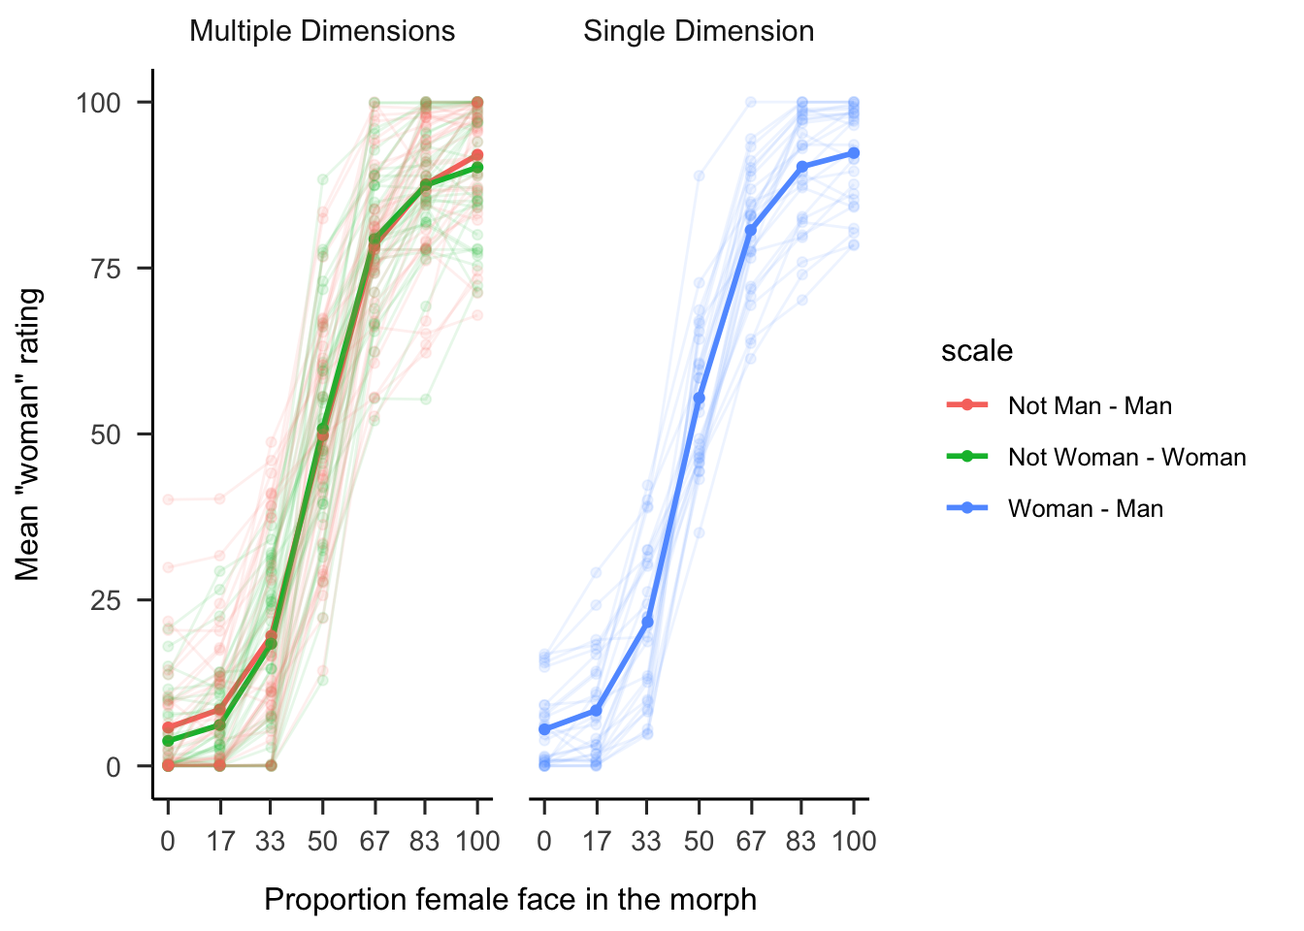
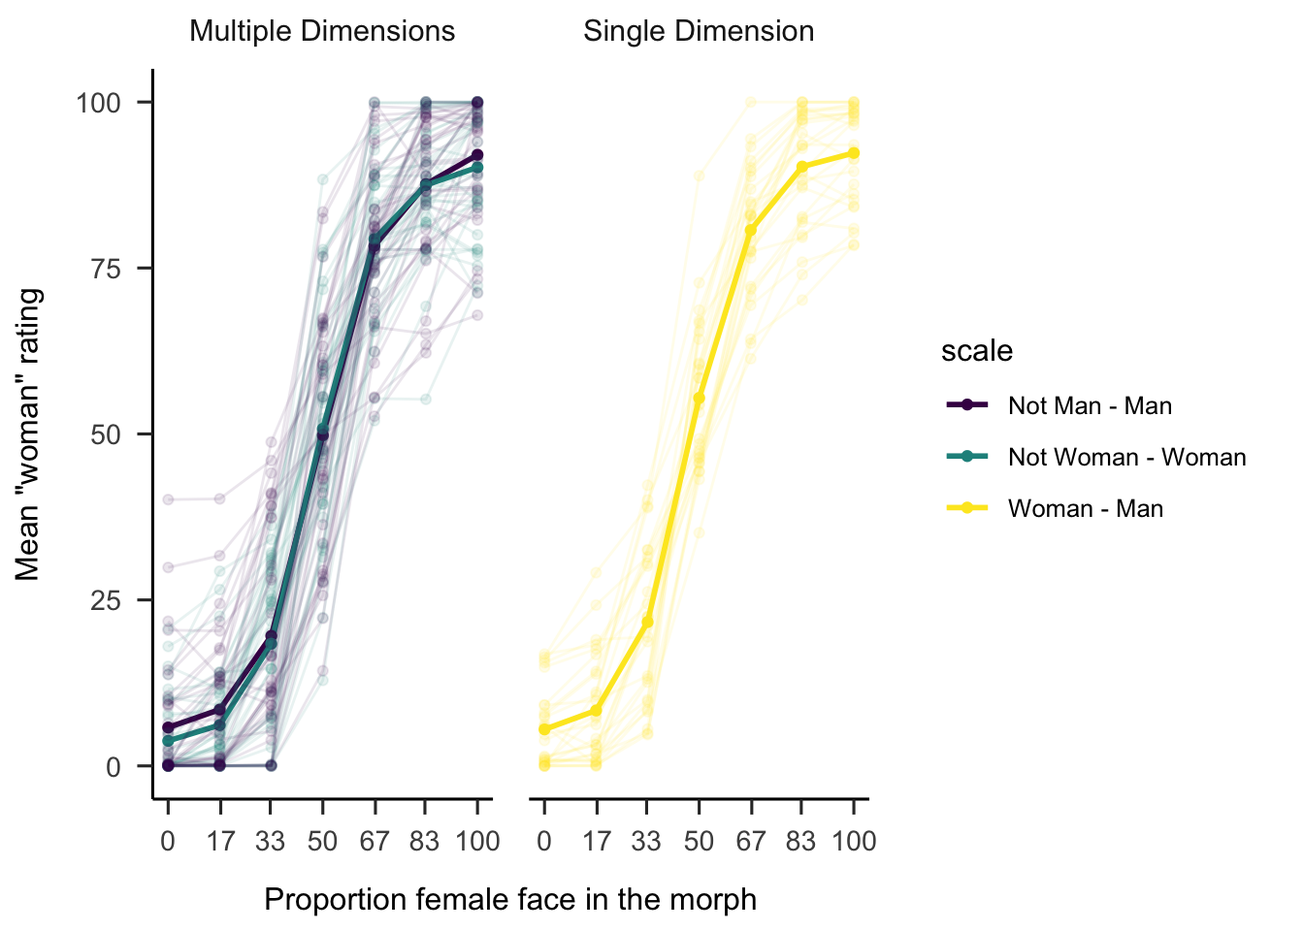
Revisions 2 manuscript

diff --git a/RO_revisions.html b/RO_revisions.html
@@ -165,12 +165,12 @@ div.csl-indent {
 </details>
 </div>
 <p>Surveys and interviews of transgender and gender diverse (TGD) individuals suggest that many people experience gender as fluid, diffuse, and not bounded by the typical western binary of women and men <span class="citation" data-cites="richards_non-binary_2016">Hyde et al. (<a href="#ref-hyde_future_2018" role="doc-biblioref">2018</a>)</span>. In addition, TGD individuals experience invisibility due to the assumption that there are only two genders and that gender should be visible from someone’s face <span class="citation" data-cites="ansara_methodologies_2014">(<a href="#ref-ansara_methodologies_2014" role="doc-biblioref">Ansara and Hegarty 2014</a>)</span>. It is important that research takes this lived reality into account when designing measures of gender categorization to avoid perpetuating such marginalization and invisibility.</p>
-<p>One of the earliest examples of an inclusive attempt to measure gender was the Bem Sex-Role Inventory (BSRI). The BSRI measured gender as a psychological trait and challenged the dichotomous and binary conceptualizations of gender by treating femininity and masculinity as separate constructs <span class="citation" data-cites="bem_measurement_1974">(<a href="#ref-bem_measurement_1974" role="doc-biblioref">Bem 1974</a>)</span>. When gender was measured this way, most people exhibited a mixture of feminine and masculine traits <span class="citation" data-cites="bem_measurement_1974">(<a href="#ref-bem_measurement_1974" role="doc-biblioref">Bem 1974</a>)</span>. The BSRI, despite its innovation, did not offer participants the opportunity to identify with genders beyond the traditional binary categories of women and men.</p>
+<p>One of the earliest examples of an inclusive attempt to measure gender was the Bem Sex-Role Inventory (BSRI). The BSRI measured gender as a psychological trait and challenged the dichotomous and binary conceptualizations of gender by treating femininity and masculinity as separate constructs <span class="citation" data-cites="bem_measurement_1974">(<a href="#ref-bem_measurement_1974" role="doc-biblioref">Bem 1974</a>)</span>. When gender was measured with the BSRI, most people exhibited a mixture of feminine and masculine traits <span class="citation" data-cites="bem_measurement_1974">(<a href="#ref-bem_measurement_1974" role="doc-biblioref">Bem 1974</a>)</span>. The BSRI, despite its innovation, did not offer participants the opportunity to identify with genders beyond the traditional binary categories of women and men.</p>
 <p>More recently, a number of recommendations have been put forward to help researchers measure participants gender identity without excluding TGD people. For example, <span class="citation" data-cites="saperstein_categorical_2021">Saperstein and Westbrook (<a href="#ref-saperstein_categorical_2021" role="doc-biblioref">2021</a>)</span> suggested including a range of categories in addition to “woman” and “man”. In addition, <span class="citation" data-cites="lindqvist_what_2020">Lindqvist, Sendén, and Renström (<a href="#ref-lindqvist_what_2020" role="doc-biblioref">2020</a>)</span> suggested including an open text entry where participants can fill in whatever they want. While this practice is not yet the standard, it is increasingly common among researchers to adopt these open-ended approaches to measure participant gender <span class="citation" data-cites="carleton_assessing_2022 cronin_younger_2022 dagostino_organizational_2022 gottgens_impact_2022">(e.g. <a href="#ref-carleton_assessing_2022" role="doc-biblioref">Carleton et al. 2022</a>; <a href="#ref-cronin_younger_2022" role="doc-biblioref">Cronin et al. 2022</a>; <a href="#ref-dagostino_organizational_2022" role="doc-biblioref">D’Agostino et al. 2022</a>; <a href="#ref-gottgens_impact_2022" role="doc-biblioref">Göttgens et al. 2022</a>)</span></p>
 <p>However, it is important to note that the majority of recommendations primarily focus on research that measures participants’ self-identified gender identity. This emphasis is understandable as gender identity is a commonly reported demographic variable. Still, self-identified gender identity is only one of many ways that gender can be a target of research. Another common avenue of research on gender is as a social outcome, specifically how people perceive and categorize the gender of others.</p>
 <p>A brief survey of the research on how people perceive and categorize the gender of others still almost exclusively treats gender as a binary category. Researchers in this field have explored the speed and automaticity of gender perception in faces, as well as which facial features are associated with specific gender categories, such as women and men <span class="citation" data-cites="mogilski_relative_2018">(e.g. <a href="#ref-mogilski_relative_2018" role="doc-biblioref">Mogilski and Welling 2018</a>)</span>. Generally, the findings have been used to argue that people categorize gender rapidly and automatically <span class="citation" data-cites="habibi_spontaneous_2012 jung_automaticity_2019">(<a href="#ref-habibi_spontaneous_2012" role="doc-biblioref">Habibi and Khurana 2012</a>; <a href="#ref-jung_automaticity_2019" role="doc-biblioref">Jung, White, and Powanda 2019</a>)</span>, with facial features such as skin smoothness, jawline, and hair length used to determine gender identity. Lastly, studies in this field have indicated that people perceive faces categorically <span class="citation" data-cites="campanella_categorical_2001">(<a href="#ref-campanella_categorical_2001" role="doc-biblioref">Campanella, Chrysochoos, and Bruyer 2001</a>)</span>. In other words, that faces, even when manipulated to vary on a continuum from feminine to masculine were still perceived as belonging to the categories women or man. However, these studies typically do reflect the diverse nature of gender or consider alternative response options.</p>
 <p>Instead, gender categorization is most often measured through a forced-choice task in which participants are forced to indicate either “female” or “male” when presented with a face <span class="citation" data-cites="campanella_categorical_2001 cloutier_perceptual_2005 webster_adaptation_2004 zhao_own-_2008">(see for example <a href="#ref-campanella_categorical_2001" role="doc-biblioref">Campanella, Chrysochoos, and Bruyer 2001</a>; <a href="#ref-cloutier_perceptual_2005" role="doc-biblioref">Cloutier, Mason, and Macrae 2005</a>; <a href="#ref-webster_adaptation_2004" role="doc-biblioref">Webster et al. 2004</a>; <a href="#ref-zhao_own-_2008" role="doc-biblioref">Zhao and Bentin 2008</a>)</span>. A slightly different approach asks participants to rate faces on a gender gradation as a quality, often using “feminine” and “masculine” as endpoints on a single gradation <span class="citation" data-cites="dascenzo_imagining_2014">(<a href="#ref-dascenzo_imagining_2014" role="doc-biblioref">D’Ascenzo, Tommasi, and Laeng 2014</a>)</span>. Only in some rare cases are masculinity and femininity measured using different gradations for femininity and masculinity <span class="citation" data-cites="wittlin_about_2018">(e.g. <a href="#ref-wittlin_about_2018" role="doc-biblioref">Wittlin et al. 2018</a>)</span>.</p>
-<p>There are several reasons why researchers may want to expand their research beyond this binary. First, as awareness of both the prevelance and marginalization of TGD individuals increases, how people categorize non-binary gender becomes a relevant topic for research in and of itself. Second, even researchers who are primarily interested in binary categorization have reason to consider inclusive response options. Measuring gender categorization using only the categories “woman” and “man” does not accurately reflect the diversity of gender as it is experienced by many people <span class="citation" data-cites="hyde_future_2018">(<a href="#ref-hyde_future_2018" role="doc-biblioref">Hyde et al. 2018</a>)</span>. By creating a binary out a more varying dimension, researchers may be missing an important source of variation, similar to how measurement of age as only “young” or “old” would miss a large source of variation. Furthermore when researchers use a limited number of gender categories, this communicates indirectly that these are the only gender categories that exist (<em>ref</em>). While TGD participants have almost certainly come across this messsage in their daily lives, one more instance amounts to another microagression, which over time adds to a feeling of exclusion. Of course researchers who are only interested in categorization of men and women may be reluctant to include more options for fear of introducing noise or unpredictability to the data. It is therefore important to know how the inclusion of additional or inclusive response options affects categorization of women and men.</p>
+<p>There are several reasons why researchers may want to expand their research beyond this binary. First, as awareness of both the prevelance and marginalization of TGD individuals increases, how people categorize non-binary gender becomes a relevant topic for research in and of itself. Second, even researchers who are primarily interested in binary categorization have reason to consider inclusive response options. Measuring gender categorization using only the categories “woman” and “man” does not accurately reflect the diversity of gender as it is experienced by many people <span class="citation" data-cites="hyde_future_2018">(<a href="#ref-hyde_future_2018" role="doc-biblioref">Hyde et al. 2018</a>)</span>. By creating a binary out a more varying dimension, researchers may be missing an important source of variation, similar to how measurement of age as only “young” or “old” would miss a large source of variation. Furthermore when researchers use a limited number of gender categories, this communicates indirectly that these are the only gender categories that exist (<em>ref</em>). While TGD participants have almost certainly come across this messsage in their daily lives, over time the accumulation of such small messages reinforcing the ender binary can lead to an overall feeling of exclusion. Of course researchers who are only interested in categorization of men and women may be reluctant to include more options for fear of introducing noise or unpredictability to the data. It is therefore important to know how the inclusion of additional or inclusive response options affects categorization of women and men.</p>
 <p>Here we report two studies which attempted to address these two potential sources of error. Study 1 investigates whether people use response options beyond the binary when they are able (Research Question 1) and how this influences categorizations of women and men (Research Question 2). Study 2 investigates whether perception of gender is accentuated towards the extremes (Research Question 3), and whether a binary measurement increases this accentuation toward the extreme (Research Question 4).</p>
 <section id="study-1" class="level1">
 <h1>Study 1</h1>
@@ -204,7 +204,13 @@ div.csl-indent {
 </section>
 <section id="procedure" class="level2">
 <h2 class="anchored" data-anchor-id="procedure">Procedure</h2>
-<p>Participants completed the experiment on a computer in a quiet room. Each trial consisted of a face accompanied by the question “How would you gender categorize this person?”. Each person completed a total of 126 trials (i.e.&nbsp;they categorized every face in the stimuli set). Participants were randomly allocated into one of the three response options conditions: binary categories, multiple categories, and free text. In the binary categories condition, participants were only given the options to respond “woman” or “man”. The multiple categories condition included the options “other” and “I don’t know” as well as woman or man. The free text condition consisted of an open text box.</p>
+<p>Participants completed the experiment on a computer in a quiet room. Each trial consisted of a face accompanied by the question “How would you gender categorize this person?”. Each person completed a total of 126 trials (i.e.&nbsp;they categorized every face in the stimuli set). Participants were randomly allocated into one of the three response options conditions: binary categories, multiple categories, and free text (see <a href="#fig-exp1-trial">Figure&nbsp;1</a>).. In the binary categories condition, participants were only given the options to respond “woman” or “man”. The multiple categories condition included the options “other” and “I don’t know” as well as woman or man. The free text condition consisted of an open text box.</p>
+<div id="fig-exp1-trial" class="quarto-figure quarto-figure-center anchored">
+<figure class="figure">
+<p><img src="pix/exp1.png" class="img-fluid figure-img"></p>
+<figcaption class="figure-caption">Figure&nbsp;1: Sample trial from each of the three conditions</figcaption>
+</figure>
+</div>
 </section>
 <section id="measures" class="level2">
 <h2 class="anchored" data-anchor-id="measures">Measures</h2>
@@ -214,7 +220,7 @@ div.csl-indent {
 </section>
 <section id="data-analysis" class="level2">
 <h2 class="anchored" data-anchor-id="data-analysis">Data analysis</h2>
-<p>We used R <span class="citation" data-cites="R-base">(Version 4.2.2; <a href="#ref-R-base" role="doc-biblioref">R Core Team 2022</a>)</span> and the R-packages <em>brms</em> <span class="citation" data-cites="R-brms_a R-brms_b R-brms_c">(Version 2.18.0; <a href="#ref-R-brms_a" role="doc-biblioref">Bürkner 2017</a>, <a href="#ref-R-brms_b" role="doc-biblioref">2018</a>, <a href="#ref-R-brms_c" role="doc-biblioref">2021</a>)</span>, <em>papaja</em> <span class="citation" data-cites="R-papaja">(Version 0.1.1; <a href="#ref-R-papaja" role="doc-biblioref">Aust and Barth 2022</a>)</span>, and <em>tidyverse</em> <span class="citation" data-cites="R-tidyverse">(Version 1.3.2; <a href="#ref-R-tidyverse" role="doc-biblioref">Wickham et al. 2019</a>)</span>. Additionally, much of the R code was adapted from <span class="citation" data-cites="kurz_doing_2023">Kurz (<a href="#ref-kurz_doing_2023" role="doc-biblioref">2023</a>)</span> . Descriptive statistics were used to summarize the data, and Bayesian mixed-effects models were used to test the research questions,. In all models, facial femininity was included as a predictor. Additionally, all models included varying intercepts for both participants and trials and varying slopes for facial femininity. To answer each research question, we used a two-step approach which began with a model comparison approach followed by Bayes factor tests of specific contrasts.</p>
+<p>We used R <span class="citation" data-cites="R-base">(Version 4.2.2; <a href="#ref-R-base" role="doc-biblioref">R Core Team 2022</a>)</span> and the R-packages <em>brms</em> <span class="citation" data-cites="R-brms_a R-brms_b R-brms_c">(Version 2.18.0; <a href="#ref-R-brms_a" role="doc-biblioref">Bürkner 2017</a>, <a href="#ref-R-brms_b" role="doc-biblioref">2018</a>, <a href="#ref-R-brms_c" role="doc-biblioref">2021</a>)</span>, <em>papaja</em> <span class="citation" data-cites="R-papaja">(Version 0.1.1; <a href="#ref-R-papaja" role="doc-biblioref">Aust and Barth 2022</a>)</span>, and <em>tidyverse</em> <span class="citation" data-cites="R-tidyverse">(Version 1.3.2; <a href="#ref-R-tidyverse" role="doc-biblioref">Wickham et al. 2019</a>)</span>. Additionally, much of the R code was adapted from <span class="citation" data-cites="kurz_doing_2023">Kurz (<a href="#ref-kurz_doing_2023" role="doc-biblioref">2023</a>)</span> . Descriptive statistics were used to summarize the data, and Bayesian mixed-effects models were used to test research questions 2. In all models, facial femininity and condition were included as fixed effects. Additionally, all models included varying intercepts for both participants and trials and varying slopes for facial femininity. To answer each research question, we used a two-step approach which began with a model comparison approach followed by Bayes factor tests of specific contrasts.</p>
 </section>
 </section>
 <section id="results" class="level1">
@@ -790,23 +796,28 @@ scale reduction factor on split chains (at convergence, Rhat = 1).</code></pre>
 <span id="cb26-6"><a href="#cb26-6" aria-hidden="true" tabindex="-1"></a>  <span class="fu">count</span>(id, age, gender)</span></code><button title="Copy to Clipboard" class="code-copy-button"><i class="bi"></i></button></pre></div>
 </details>
 </div>
-<p>Participants (<em>N</em> = 65) were recruited through advertising online and on the university campus (<em>M</em><sub>age</sub>= 36.67, <em>SD</em><sub>age</sub> = 12.54).Self-identified gender was measured using an open-ended text box; 33 women and 32 men participated. Participants were monetarily compensated for their time. All participants were informed that participation was voluntary and gave written consent to participate in the study in accordance with ethical recommendations. The participants were randomly allocated to conditions.</p>
+<p>PaSwedish participants (<em>N</em> = 66) were recruited through advertising online and on the university campus (<em>M</em><sub>age</sub>= 37.3636364, <em>SD</em><sub>age</sub> = 14.1373878, Range = 18 - 73). Self-identified gender was measured using an open-ended text box; 31 women and 32 men and two participants who did not clerly indicate gender participated. Participants were monetarily compensated for their time. All participants were informed that participation was voluntary and gave written consent to participate in the study in accordance with ethical recommendations. The participants were randomly allocated to conditions.</p>
 </section>
 <section id="stimuli-procedure" class="level2">
 <h2 class="anchored" data-anchor-id="stimuli-procedure">Stimuli &amp; Procedure</h2>
-<p>The stimuli and procedure for study 2 were identical to experiment 1 but included only two conditions. Study 2 differed only the response options conditions, such that response option conditions consisted of a single dimension, which ranged from “woman” to “man” and “multiple dimension” which ranged from “not woman” to “woman” and “not man” to “man”. For the multiple dimensions condition, participants rated the same faces according to both scales, but on separate trials. This differed from <span class="citation" data-cites="bem_measurement_1974">Bem (<a href="#ref-bem_measurement_1974" role="doc-biblioref">1974</a>)</span>, who used scales of “femininity” and “masculinity”. The present anchors were chosen because gender categorization was the focus of the present study.</p>
+<p>The stimuli and procedure for study 2 were identical to experiment 1 but included only two conditions. In Study 2 response options conditions, such that response option conditions consisted of a single dimension, which ranged from “woman” to “man” and “multiple dimension” which ranged from “not woman” to “woman” and “not man” to “man” (see <a href="#fig-exp2-trial">Figure&nbsp;2</a>. For the multiple dimensions condition, participants rated the same faces according to both scales, but on separate trials. This differed from <span class="citation" data-cites="bem_measurement_1974">Bem (<a href="#ref-bem_measurement_1974" role="doc-biblioref">1974</a>)</span>, who used scales of “femininity” and “masculinity”. The present anchors were chosen because gender categorization was the focus of the present study.</p>
+<div id="fig-exp2-trial" class="quarto-figure quarto-figure-center anchored">
+<figure class="figure">
+<p><img src="pix/exp2.png" class="img-fluid figure-img"></p>
+<figcaption class="figure-caption">Figure&nbsp;2: Sample trial from each of the three conditions</figcaption>
+</figure>
+</div>
 </section>
 <section id="data-analysis-1" class="level2">
 <h2 class="anchored" data-anchor-id="data-analysis-1">Data analysis</h2>
-<p>Research question 3 asked whether whether participants would view faces less categorically in when they categorized them using multiple dimensions (i.e.&nbsp;Not woman - Woman/Not man -Man) than when they used the single dimension (Woman-Man). We expected to see a difference between the two conditions at fecial feminiity = 33.33 and 66.67 as these were the closes to the midway point. In other words, if categorical perception is reduced, we would expect to see an interaction between condition and facial femininity level, but not a main effect. To test this, we fit a single Bayesian mixed-effects model which calculated unique fixed intercepts at each intersection of facial femininity and condition as well as varying intercepts for participants and faces (See supplemental material for full model specification). Using Savage-Dickey density ratios, we calculated the Bayes Factors for the contrasts between single dimension condition and multiple dimension at Facial Femininity = 33.37 and 66.66.</p>
+<p>Descriptive statistics were used to summarize the data to highlight, and Bayesian mixed-effects models were used to test research question 4. In all models, facial femininity and condition were included as fixed effects. Additionally, all models included varying intercepts for both participants and trials and varying slopes for facial femininity. The pattern of scores were clearly non-linear, meaning any linear model would probably be misspecified. Therefore, to reduce the complexity of the model, facial femininity was modelled as a factor with seven levels, corresponding to each of the seven morphing steps. Any accentuation effects should be strongest closest to the midpoint, therefore, we compared the two conditions at Facial Femininity = 33.37 and 66.66, reporting the credible intervals of the difference as wwell as the Savage-Dickey Bayes factors.</p>
 </section>
 </section>
 <section id="results-1" class="level1">
 <h1>Results</h1>
 <section id="research-question-3" class="level2">
 <h2 class="anchored" data-anchor-id="research-question-3">Research Question 3:</h2>
-<p>First, we investigated whether particpants accentuated gender compared to the physical features of the faces. To answer this question, we visualized responses in Figure&nbsp;@ref(fig:descriptives-two)</p>
-<p>The mean ratings in both conditions are presented in Figure&nbsp;@ref(fig:descriptives-two). If participants respond to the properties of faces, the lines should be linear. Instead, Figure&nbsp;@ref(fig:descriptives-two) shows that most participants display a non-linear S-shape and this was indeed also the pattern of the means. However, the Figure&nbsp;@ref(fig:descriptives-two) also suggests that there was a high degree of individual variation, and some participants were more accentuative than others in their ratings.</p>
+<p>First, we investigated whether participants accentuated gender compared to the physical features of the faces. To answer this question, we visualized responses in Figure&nbsp;@ref(fig:descriptives-two). If participants respond only to the physical properties of faces, the lines should be a straight diagonal. Instead, Figure&nbsp;@ref(fig:descriptives-two) shows that most participants display a non-linear S-shape (see the light lines) and this was indeed also the pattern of the group means in both conditions (see the dark lines). However, the Figure&nbsp;@ref(fig:descriptives-two) also suggests that there was a high degree of individual variation, and some participants were more accentuative than others in their ratings.</p>
 <div class="cell">
 <details>
 <summary>Code</summary>
@@ -875,7 +886,7 @@ override using the `.groups` argument.</code></pre>
 <span id="cb33-14"><a href="#cb33-14" aria-hidden="true" tabindex="-1"></a>  <span class="fu">scale_x_continuous</span>(<span class="at">breaks =</span><span class="fu">c</span>(<span class="dv">0</span>, <span class="dv">17</span>, <span class="dv">33</span>, <span class="dv">50</span>, <span class="dv">67</span>, <span class="dv">83</span>, <span class="dv">100</span>)) <span class="sc">+</span></span>
 <span id="cb33-15"><a href="#cb33-15" aria-hidden="true" tabindex="-1"></a>  <span class="fu">ylab</span>(<span class="st">"Mean </span><span class="sc">\"</span><span class="st">woman</span><span class="sc">\"</span><span class="st"> rating"</span> ) <span class="sc">+</span></span>
 <span id="cb33-16"><a href="#cb33-16" aria-hidden="true" tabindex="-1"></a>  <span class="fu">xlab</span>(<span class="st">"Proportion female face in the morph"</span>) <span class="sc">+</span></span>
-<span id="cb33-17"><a href="#cb33-17" aria-hidden="true" tabindex="-1"></a> <span class="co"># scale_color_brewer(name = "Condition")+</span></span>
+<span id="cb33-17"><a href="#cb33-17" aria-hidden="true" tabindex="-1"></a>  <span class="fu">scale_color_viridis_d</span>()<span class="sc">+</span></span>
 <span id="cb33-18"><a href="#cb33-18" aria-hidden="true" tabindex="-1"></a>  <span class="fu">theme_apa</span>() </span></code><button title="Copy to Clipboard" class="code-copy-button"><i class="bi"></i></button></pre></div>
 </details>
 <div class="cell-output-display">
@@ -939,7 +950,7 @@ override using the `.groups` argument.</code></pre>
 <span id="cb35-10"><a href="#cb35-10" aria-hidden="true" tabindex="-1"></a>  <span class="fu">scale_color_grey</span>(<span class="at">name =</span> <span class="st">"Condition"</span>,</span>
 <span id="cb35-11"><a href="#cb35-11" aria-hidden="true" tabindex="-1"></a>                   <span class="at">labels =</span> <span class="fu">c</span>(<span class="st">"Single Dimension"</span>, <span class="st">"Multiple Dimensions"</span>))<span class="sc">+</span></span>
 <span id="cb35-12"><a href="#cb35-12" aria-hidden="true" tabindex="-1"></a>  <span class="fu">ylab</span>(<span class="st">"Mean rating"</span> ) <span class="sc">+</span></span>
-<span id="cb35-13"><a href="#cb35-13" aria-hidden="true" tabindex="-1"></a>  <span class="fu">xlab</span>(<span class="st">"Proportion female face in the morph"</span>)<span class="sc">+</span></span>
+<span id="cb35-13"><a href="#cb35-13" aria-hidden="true" tabindex="-1"></a>  <span class="fu">xlab</span>(<span class="st">"Facial femininity"</span>)<span class="sc">+</span></span>
 <span id="cb35-14"><a href="#cb35-14" aria-hidden="true" tabindex="-1"></a>  <span class="fu">theme_apa</span>()</span></code><button title="Copy to Clipboard" class="code-copy-button"><i class="bi"></i></button></pre></div>
 </details>
 <div class="cell-output-display">
